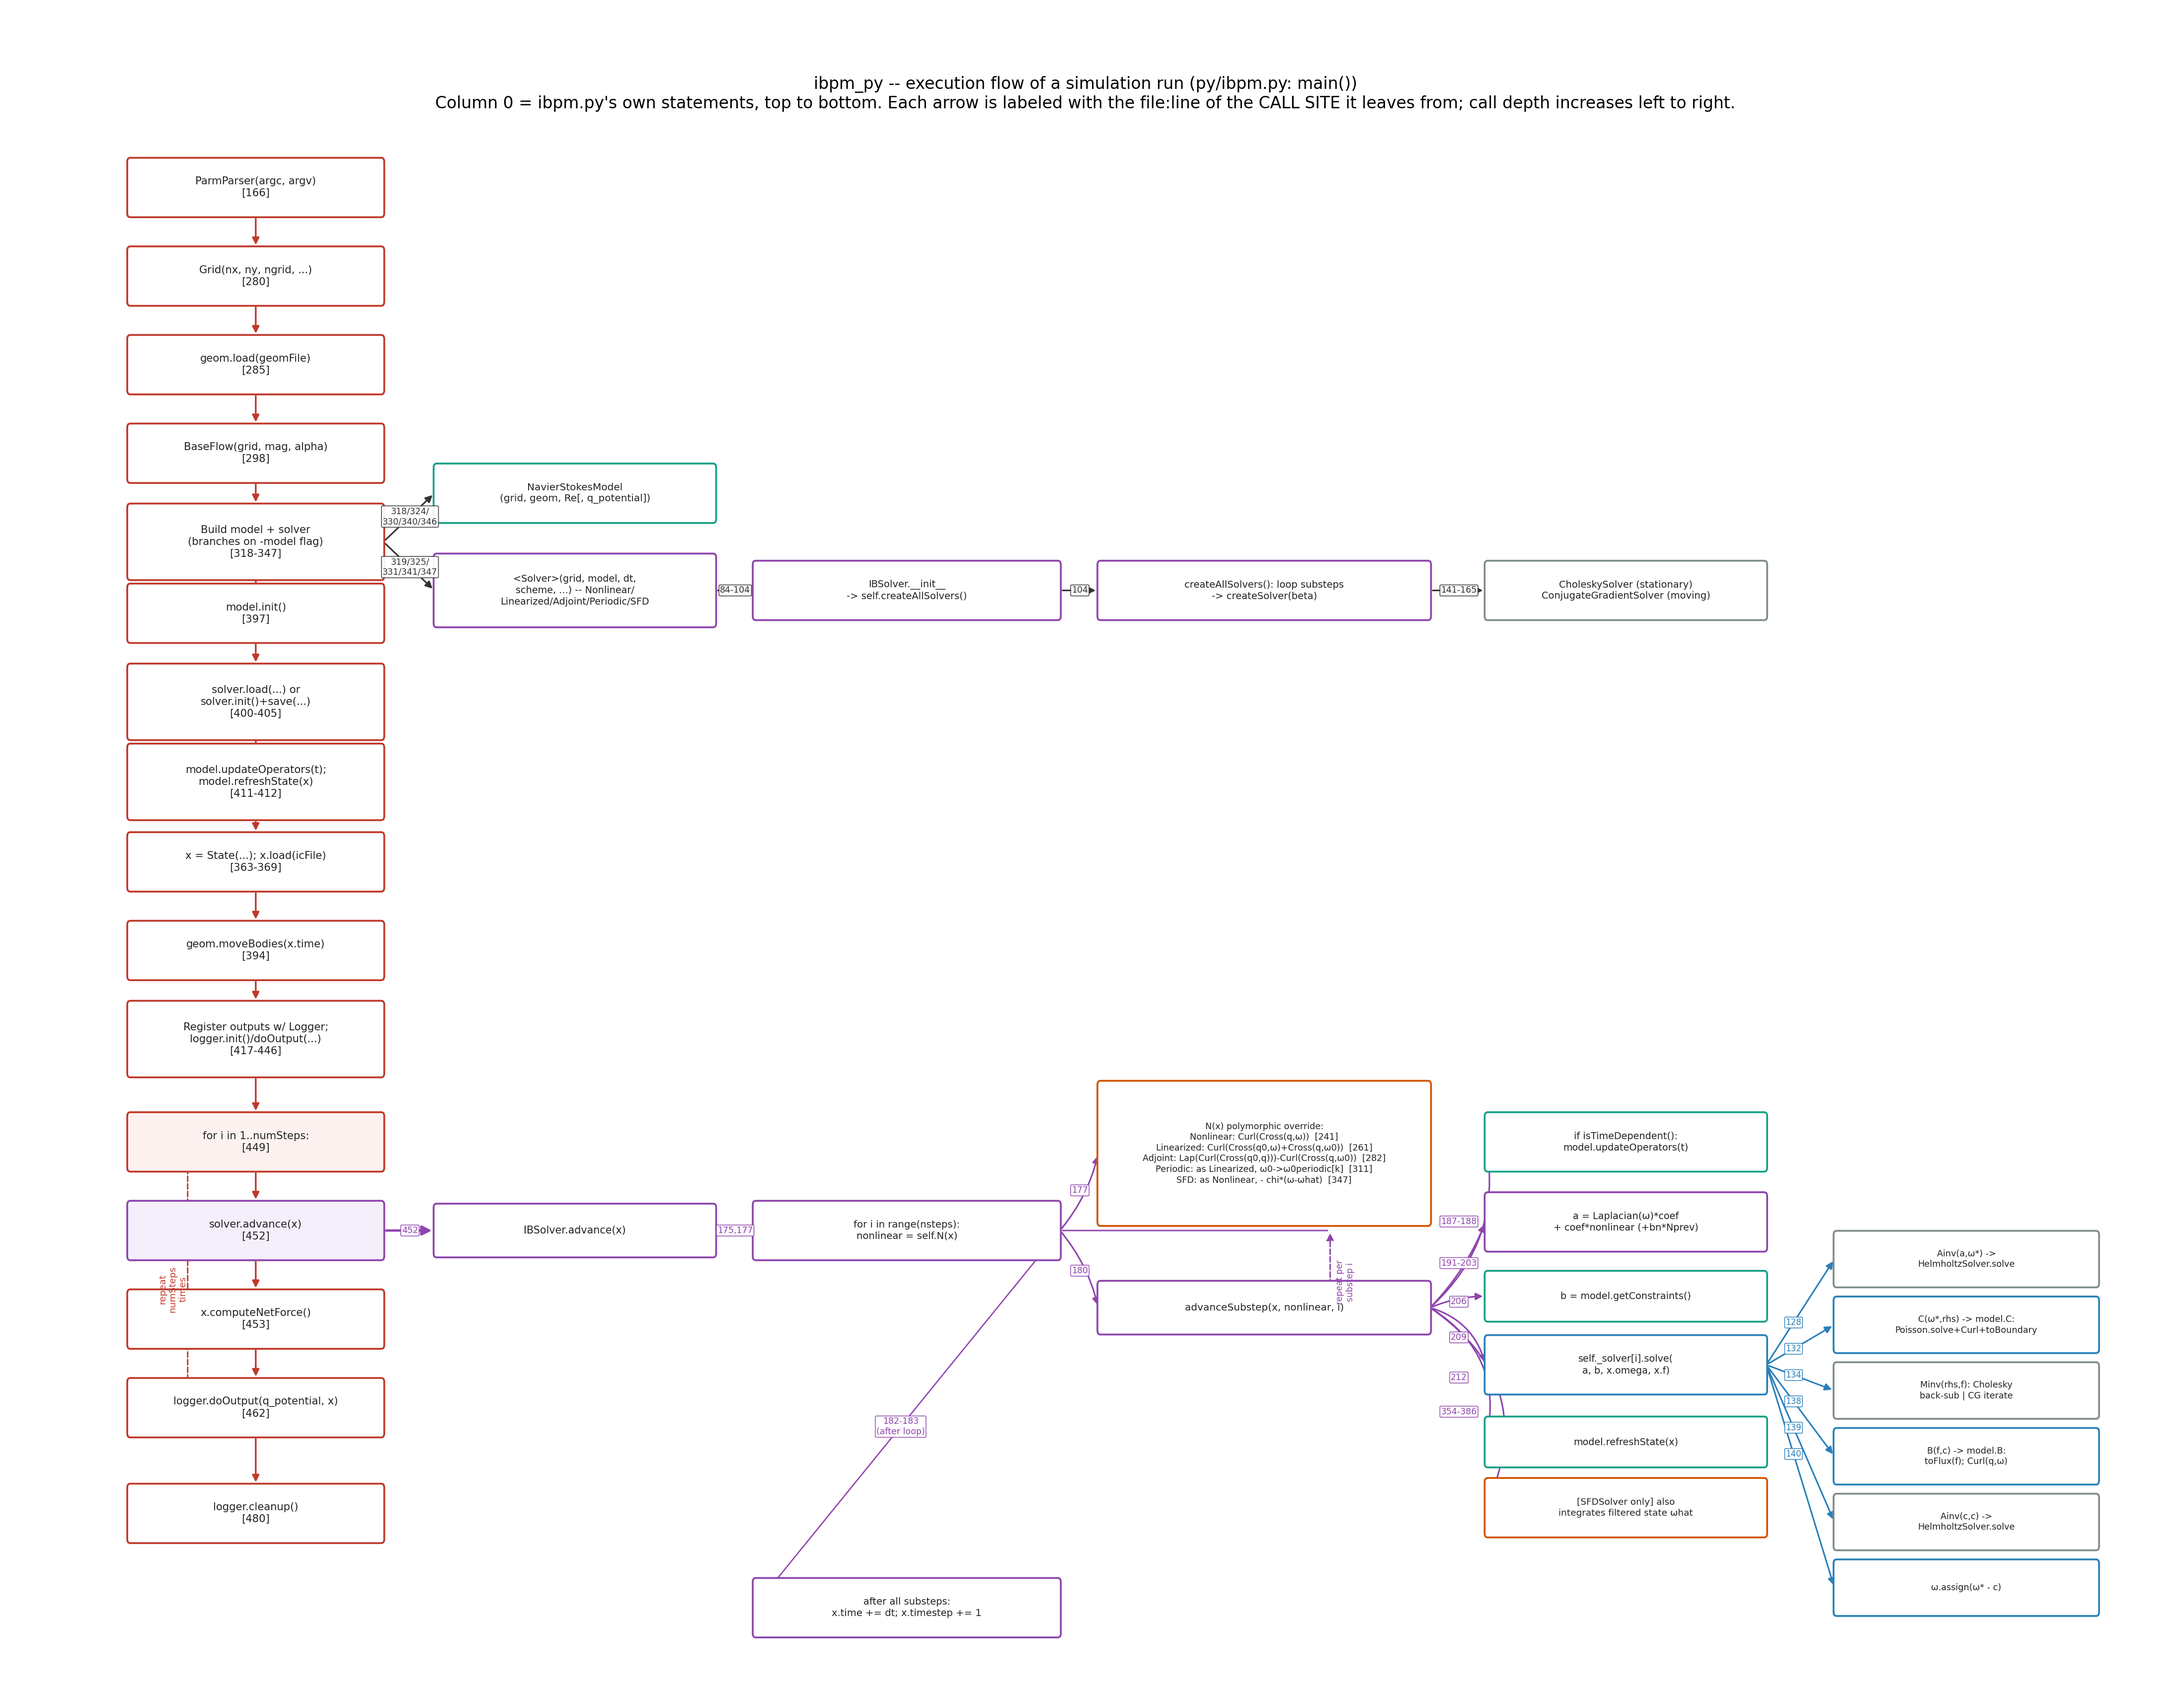
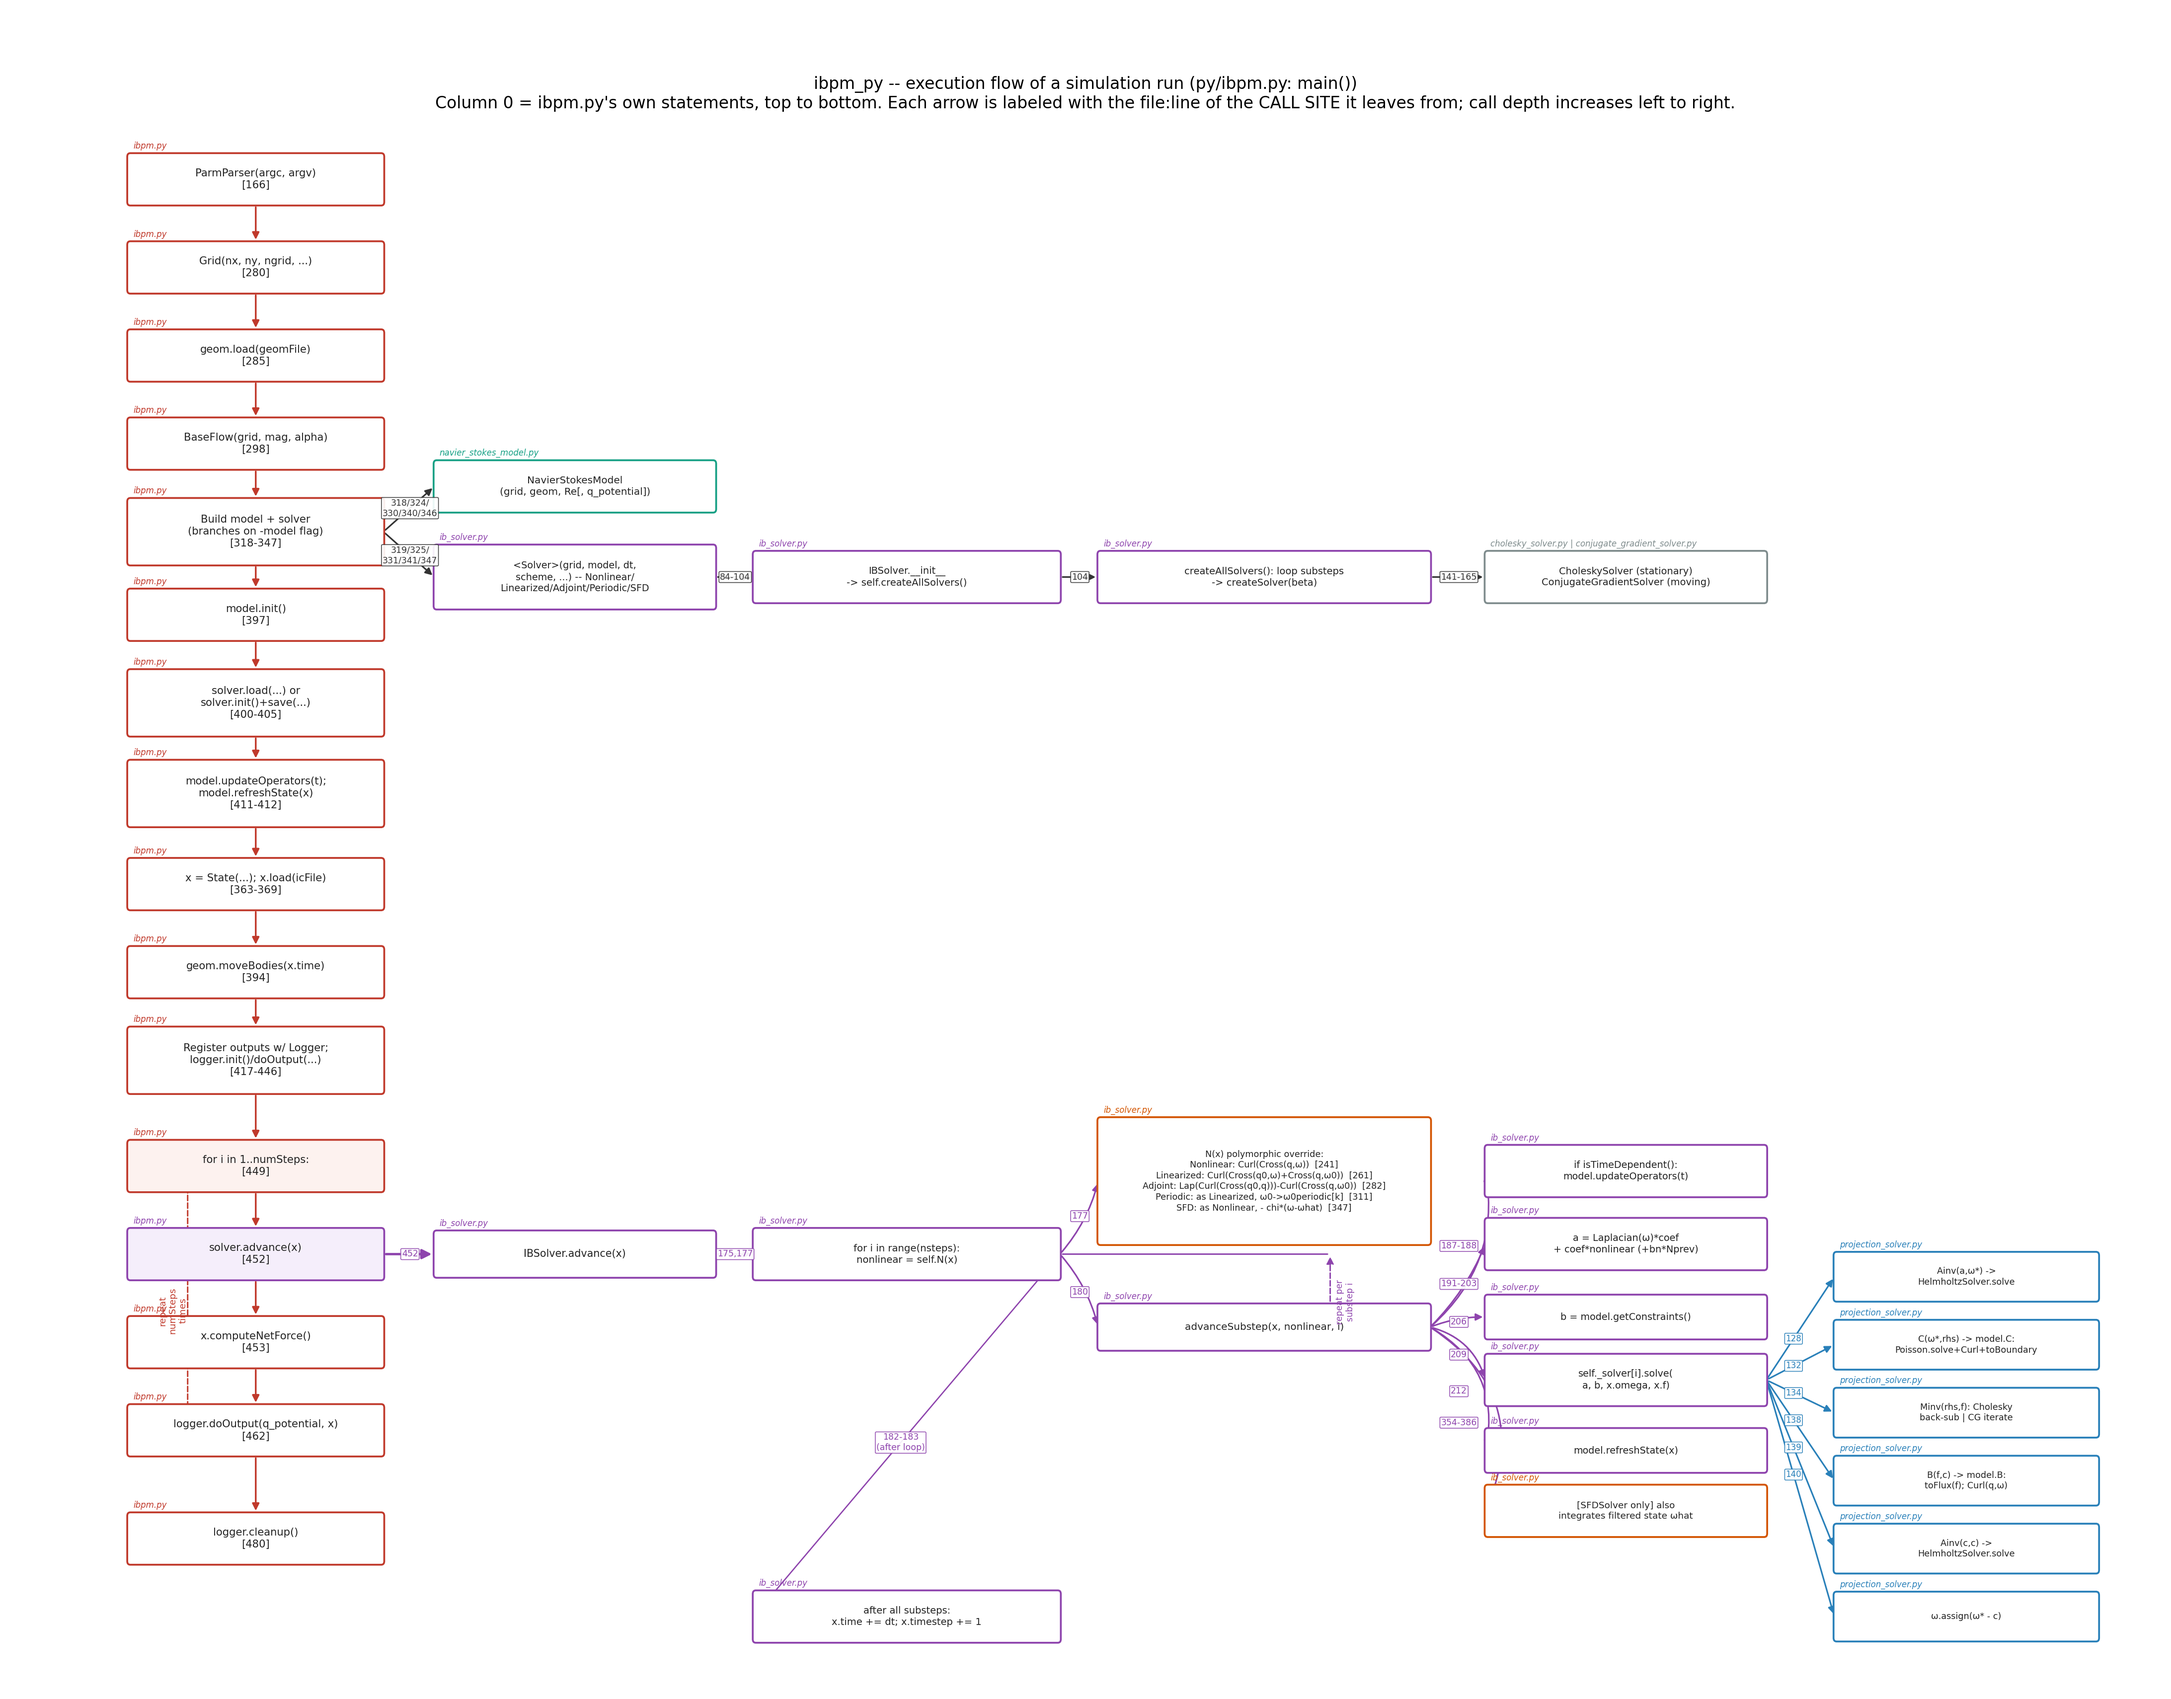
Tag each execution-flowchart box with its source .py file
Adds a `file` argument to box(): every box now has a small italic tag
directly above its top-left corner naming the py/ file its code belongs to
(ibpm.py, ib_solver.py, navier_stokes_model.py, projection_solver.py, or
cholesky_solver.py|conjugate_gradient_solver.py for the two ProjectionSolver
subclasses). Positioned upper-left and outside the box so it never collides
with the incoming arrow (which lands at top-center) or the box above it in
the same column; column-0 row spacing bumped slightly to make room.

diff --git a/flowchart/generate_execution_flowchart.py b/flowchart/generate_execution_flowchart.py
@@ -47,8 +47,12 @@ COL_X = [3.0, 10.5, 18.3, 26.7, 35.2, 43.2]
 COL_W = [6.0, 6.6, 7.2, 7.8, 6.6, 6.2]
 
 
-def box(ax, col, y, lines, edgecolor, h=1.0, fontsize=8.0, facecolor="white",
+def box(ax, col, y, lines, edgecolor, file, h=1.0, fontsize=8.0, facecolor="white",
         linewidth=1.4, zorder=2, style="round,pad=0.02,rounding_size=0.07"):
+    """Draw one flowchart box. `file` is the py/ source file this box's code
+    belongs to; it's rendered as a small tag centered directly above the
+    box's top edge (drawn outside the box, so it never eats into body text
+    or collides with an incoming arrow, which always lands at top-center)."""
     x, w = COL_X[col], COL_W[col]
     b = FancyBboxPatch((x - w / 2, y - h / 2), w, h, boxstyle=style,
                          linewidth=linewidth, edgecolor=edgecolor,
@@ -56,6 +60,10 @@ def box(ax, col, y, lines, edgecolor, h=1.0, fontsize=8.0, facecolor="white",
     ax.add_patch(b)
     ax.text(x, y, "\n".join(lines), ha="center", va="center", fontsize=fontsize,
              color="#222222", zorder=zorder + 1, linespacing=1.25)
+    # file tag: upper-left, outside the box, so it never sits in the path of
+    # a straight vertical incoming arrow (which lands at top-center)
+    ax.text(x - w / 2 + 0.12, y + h / 2 + 0.07, file, ha="left", va="bottom",
+             fontsize=6.3, style="italic", color=edgecolor, zorder=zorder + 1)
     return (x, y, w, h)
 
 
@@ -126,44 +134,45 @@ def main() -> None:
     fig, ax = plt.subplots(figsize=(23, 18))
 
     # ===================== COLUMN 0: ibpm.py main(), in order =====================
+    IBPM = "ibpm.py"
     y = 45.0
-    dy = 1.55
-    n01 = box(ax, 0, y, ["ParmParser(argc, argv)", "[166]"], COLOR_DRIVER)
+    dy = 1.75
+    n01 = box(ax, 0, y, ["ParmParser(argc, argv)", "[166]"], COLOR_DRIVER, IBPM)
     y -= dy
-    n02 = box(ax, 0, y, ["Grid(nx, ny, ngrid, ...)", "[280]"], COLOR_DRIVER)
+    n02 = box(ax, 0, y, ["Grid(nx, ny, ngrid, ...)", "[280]"], COLOR_DRIVER, IBPM)
     y -= dy
-    n03 = box(ax, 0, y, ["geom.load(geomFile)", "[285]"], COLOR_DRIVER)
+    n03 = box(ax, 0, y, ["geom.load(geomFile)", "[285]"], COLOR_DRIVER, IBPM)
     y -= dy
-    n04 = box(ax, 0, y, ["BaseFlow(grid, mag, alpha)", "[298]"], COLOR_DRIVER)
+    n04 = box(ax, 0, y, ["BaseFlow(grid, mag, alpha)", "[298]"], COLOR_DRIVER, IBPM)
     y -= dy
     n05 = box(ax, 0, y, ["Build model + solver", "(branches on -model flag)", "[318-347]"],
-              COLOR_DRIVER, h=1.3)
-    y -= dy - 0.3
-    n06 = box(ax, 0, y, ["model.init()", "[397]"], COLOR_DRIVER)
+              COLOR_DRIVER, IBPM, h=1.3)
+    y -= dy - 0.1
+    n06 = box(ax, 0, y, ["model.init()", "[397]"], COLOR_DRIVER, IBPM)
     y -= dy
     n07 = box(ax, 0, y, ["solver.load(...) or", "solver.init()+save(...)", "[400-405]"],
-              COLOR_DRIVER, h=1.3)
-    y -= dy - 0.15
+              COLOR_DRIVER, IBPM, h=1.3)
+    y -= dy + 0.05
     n08 = box(ax, 0, y, ["model.updateOperators(t);", "model.refreshState(x)", "[411-412]"],
-              COLOR_DRIVER, h=1.3)
-    y -= dy - 0.15
-    n09 = box(ax, 0, y, ["x = State(...); x.load(icFile)", "[363-369]"], COLOR_DRIVER)
+              COLOR_DRIVER, IBPM, h=1.3)
+    y -= dy + 0.05
+    n09 = box(ax, 0, y, ["x = State(...); x.load(icFile)", "[363-369]"], COLOR_DRIVER, IBPM)
     y -= dy
-    n10 = box(ax, 0, y, ["geom.moveBodies(x.time)", "[394]"], COLOR_DRIVER)
+    n10 = box(ax, 0, y, ["geom.moveBodies(x.time)", "[394]"], COLOR_DRIVER, IBPM)
     y -= dy
     n11 = box(ax, 0, y, ["Register outputs w/ Logger;", "logger.init()/doOutput(...)", "[417-446]"],
-              COLOR_DRIVER, h=1.3)
-    y -= dy + 0.25
-    n12 = box(ax, 0, y, ["for i in 1..numSteps:", "[449]"], COLOR_DRIVER, facecolor="#fdf2ef")
+              COLOR_DRIVER, IBPM, h=1.3)
+    y -= dy + 0.35
+    n12 = box(ax, 0, y, ["for i in 1..numSteps:", "[449]"], COLOR_DRIVER, IBPM, facecolor="#fdf2ef")
     y -= dy
-    n13 = box(ax, 0, y, ["solver.advance(x)", "[452]"], COLOR_SOLVER, facecolor="#f5eefb")
+    n13 = box(ax, 0, y, ["solver.advance(x)", "[452]"], COLOR_SOLVER, IBPM, facecolor="#f5eefb")
     y -= dy
-    n14 = box(ax, 0, y, ["x.computeNetForce()", "[453]"], COLOR_DRIVER)
+    n14 = box(ax, 0, y, ["x.computeNetForce()", "[453]"], COLOR_DRIVER, IBPM)
     y -= dy
-    n15 = box(ax, 0, y, ["logger.doOutput(q_potential, x)", "[462]"], COLOR_DRIVER)
+    n15 = box(ax, 0, y, ["logger.doOutput(q_potential, x)", "[462]"], COLOR_DRIVER, IBPM)
     n15_loop_bottom = y
-    y -= dy + 0.3
-    n16 = box(ax, 0, y, ["logger.cleanup()", "[480]"], COLOR_DRIVER)
+    y -= dy + 0.4
+    n16 = box(ax, 0, y, ["logger.cleanup()", "[480]"], COLOR_DRIVER, IBPM)
 
     for p, q in [(n01, n02), (n02, n03), (n03, n04), (n04, n05), (n05, n06),
                  (n06, n07), (n07, n08), (n08, n09), (n09, n10), (n10, n11),
@@ -173,71 +182,81 @@ def main() -> None:
     loop_arrow(ax, n15, n12, COLOR_DRIVER, x_offset=-1.6, label="repeat\nnumSteps\ntimes")
 
     # ===================== BRANCH A: n05 "build model + solver" =====================
-    a1 = box(ax, 1, n05[1] + 0.85, ["NavierStokesModel", "(grid, geom, Re[, q_potential])"],
-             COLOR_MODEL, h=1.0, fontsize=7.6)
-    a2 = box(ax, 1, n05[1] - 0.85, ["<Solver>(grid, model, dt,", "scheme, ...) -- Nonlinear/", "Linearized/Adjoint/Periodic/SFD"],
-             COLOR_SOLVER, h=1.25, fontsize=7.3)
+    NSM = "navier_stokes_model.py"
+    IBS = "ib_solver.py"
+    PROJ = "projection_solver.py"
+    CHOL_CG = "cholesky_solver.py | conjugate_gradient_solver.py"
+
+    a1 = box(ax, 1, n05[1] + 0.9, ["NavierStokesModel", "(grid, geom, Re[, q_potential])"],
+             COLOR_MODEL, NSM, h=1.0, fontsize=7.6)
+    a2 = box(ax, 1, n05[1] - 0.9, ["<Solver>(grid, model, dt,", "scheme, ...) -- Nonlinear/", "Linearized/Adjoint/Periodic/SFD"],
+             COLOR_SOLVER, IBS, h=1.25, fontsize=7.3)
     call_arrow(ax, n05, a1, "318/324/\n330/340/346")
     call_arrow(ax, n05, a2, "319/325/\n331/341/347")
 
     a3 = box(ax, 2, a2[1], ["IBSolver.__init__", "-> self.createAllSolvers()"], COLOR_SOLVER,
-             h=1.0, fontsize=7.4)
+             IBS, h=1.0, fontsize=7.4)
     call_arrow(ax, a2, a3, "84-104")
 
     a4 = box(ax, 3, a2[1], ["createAllSolvers(): loop substeps", "-> createSolver(beta)"], COLOR_SOLVER,
-             h=1.0, fontsize=7.4)
+             IBS, h=1.0, fontsize=7.4)
     call_arrow(ax, a3, a4, "104")
 
     a5 = box(ax, 4, a2[1], ["CholeskySolver (stationary)", "ConjugateGradientSolver (moving)"],
-             COLOR_LOWLEVEL, h=1.0, fontsize=7.4)
+             COLOR_LOWLEVEL, CHOL_CG, h=1.0, fontsize=7.4)
     call_arrow(ax, a4, a5, "141-165")
 
     # ===================== BRANCH B: n13 "solver.advance(x)" =====================
     b1_y = n13[1]
-    b1 = box(ax, 1, b1_y, ["IBSolver.advance(x)"], COLOR_SOLVER, h=0.9, fontsize=7.8)
+    b1 = box(ax, 1, b1_y, ["IBSolver.advance(x)"], COLOR_SOLVER, IBS, h=0.9, fontsize=7.8)
     call_arrow(ax, n13, b1, "452", color=COLOR_SOLVER, lw=1.8, mutation_scale=15)
 
     b2 = box(ax, 2, b1_y, ["for i in range(nsteps):", "nonlinear = self.N(x)"], COLOR_SOLVER,
-             h=1.0, fontsize=7.5)
+             IBS, h=1.0, fontsize=7.5)
     call_arrow(ax, b1, b2, "175,177", color=COLOR_SOLVER)
 
-    b3 = box(ax, 3, b1_y + 1.35,
+    b3 = box(ax, 3, b1_y + 1.45,
              ["N(x) polymorphic override:", "Nonlinear: Curl(Cross(q,ω))  [241]",
               "Linearized: Curl(Cross(q0,ω)+Cross(q,ω0))  [261]",
               "Adjoint: Lap(Curl(Cross(q0,q)))-Curl(Cross(q,ω0))  [282]",
               "Periodic: as Linearized, ω0->ω0periodic[k]  [311]",
               "SFD: as Nonlinear, - chi*(ω-ωhat)  [347]"],
-             COLOR_NOTE, h=2.5, fontsize=6.7)
+             COLOR_NOTE, IBS, h=2.5, fontsize=6.7)
     call_arrow(ax, b2, b3, "177", color=COLOR_SOLVER, rad=0.12)
 
-    b4 = box(ax, 3, b1_y - 1.35, ["advanceSubstep(x, nonlinear, i)"], COLOR_SOLVER, h=0.9, fontsize=7.6)
+    b4 = box(ax, 3, b1_y - 1.45, ["advanceSubstep(x, nonlinear, i)"], COLOR_SOLVER, IBS, h=0.9, fontsize=7.6)
     call_arrow(ax, b2, b4, "180", color=COLOR_SOLVER, rad=-0.12)
 
-    b5 = box(ax, 4, b1_y + 1.55, ["if isTimeDependent():", "model.updateOperators(t)"], COLOR_MODEL,
-             h=1.0, fontsize=7.3)
+    b5 = box(ax, 4, b1_y + 1.65, ["if isTimeDependent():", "model.updateOperators(t)"], COLOR_SOLVER,
+             IBS, h=1.0, fontsize=7.3)
     call_arrow(ax, b4, b5, "187-188", color=COLOR_SOLVER, rad=0.28)
 
-    b6 = box(ax, 4, b1_y + 0.15,
+    b6 = box(ax, 4, b1_y + 0.2,
              ["a = Laplacian(ω)*coef", "+ coef*nonlinear (+bn*Nprev)"], COLOR_SOLVER,
-             h=1.0, fontsize=7.3)
+             IBS, h=1.0, fontsize=7.3)
     call_arrow(ax, b4, b6, "191-203", color=COLOR_SOLVER, rad=0.1)
 
-    b7 = box(ax, 4, b1_y - 1.15, ["b = model.getConstraints()"], COLOR_MODEL, h=0.85, fontsize=7.3)
+    b7 = box(ax, 4, b1_y - 1.25, ["b = model.getConstraints()"], COLOR_SOLVER, IBS, h=0.85, fontsize=7.3)
     call_arrow(ax, b4, b7, "206", color=COLOR_SOLVER, rad=-0.1)
 
-    b8 = box(ax, 4, b1_y - 2.35, ["self._solver[i].solve(", "a, b, x.omega, x.f)"], COLOR_PROJ,
-             h=1.0, fontsize=7.3)
+    b8 = box(ax, 4, b1_y - 2.5, ["self._solver[i].solve(", "a, b, x.omega, x.f)"], COLOR_SOLVER,
+             IBS, h=1.0, fontsize=7.3)
     call_arrow(ax, b4, b8, "209", color=COLOR_SOLVER, rad=-0.28)
 
-    b9 = box(ax, 4, b1_y - 3.7, ["model.refreshState(x)"], COLOR_MODEL, h=0.85, fontsize=7.3)
+    b9 = box(ax, 4, b1_y - 3.9, ["model.refreshState(x)"], COLOR_SOLVER, IBS, h=0.85, fontsize=7.3)
     call_arrow(ax, b4, b9, "212", color=COLOR_SOLVER, rad=-0.36)
 
-    b_sfd = box(ax, 4, b1_y - 4.85, ["[SFDSolver only] also", "integrates filtered state ωhat"],
-                COLOR_NOTE, h=1.0, fontsize=7.0)
+    b_sfd = box(ax, 4, b1_y - 5.1, ["[SFDSolver only] also", "integrates filtered state ωhat"],
+                COLOR_NOTE, IBS, h=1.0, fontsize=7.0)
     call_arrow(ax, b4, b_sfd, "354-386", color=COLOR_SOLVER, rad=-0.42)
 
-    # ProjectionSolver.solve() breakdown -- one layer deeper than b8
-    c_y = b8[1] + 1.85
+    # ProjectionSolver.solve() breakdown -- one layer deeper than b8. All six
+    # steps below are sequential lines inside ProjectionSolver.solve() itself
+    # (projection_solver.py), even though several delegate out to
+    # NavierStokesModel/HelmholtzSolver/CholeskySolver -- the "->" in each
+    # box's text names that delegate, but the line cited on the arrow (and
+    # the box's own file tag) is always projection_solver.py's.
+    c_y = b8[1] + 2.05
     c_labels_lines = [
         (["Ainv(a,ω*) ->", "HelmholtzSolver.solve"], "128"),
         (["C(ω*,rhs) -> model.C:", "Poisson.solve+Curl+toBoundary"], "132"),
@@ -246,15 +265,13 @@ def main() -> None:
         (["Ainv(c,c) ->", "HelmholtzSolver.solve"], "139"),
         (["ω.assign(ω* - c)"], "140"),
     ]
-    prev_c = None
     for lines, lbl in c_labels_lines:
-        cc = box(ax, 5, c_y, lines, COLOR_LOWLEVEL if "solve" in lines[0] or "Ainv" in lines[0] or "Minv" in lines[0] else COLOR_PROJ,
-                 h=0.95, fontsize=6.7)
+        cc = box(ax, 5, c_y, lines, COLOR_PROJ, PROJ, h=0.95, fontsize=6.7)
         call_arrow(ax, b8, cc, lbl, color=COLOR_PROJ, rad=0.0, fontsize=6.3, label_frac=0.4)
-        c_y -= 1.15
+        c_y -= 1.35
 
-    b10 = box(ax, 2, b1_y - 6.6, ["after all substeps:", "x.time += dt; x.timestep += 1"],
-              COLOR_SOLVER, h=1.0, fontsize=7.4)
+    b10 = box(ax, 2, b1_y - 7.2, ["after all substeps:", "x.time += dt; x.timestep += 1"],
+              COLOR_SOLVER, IBS, h=1.0, fontsize=7.4)
     call_arrow(ax, b2, b10, "182-183\n(after loop)", color=COLOR_SOLVER, rad=0.0, lw=1.0)
     loop_arrow(ax, b4, b2, COLOR_SOLVER, x_offset=1.55, label="repeat per\nsubstep i", fontsize=6.5)
 
